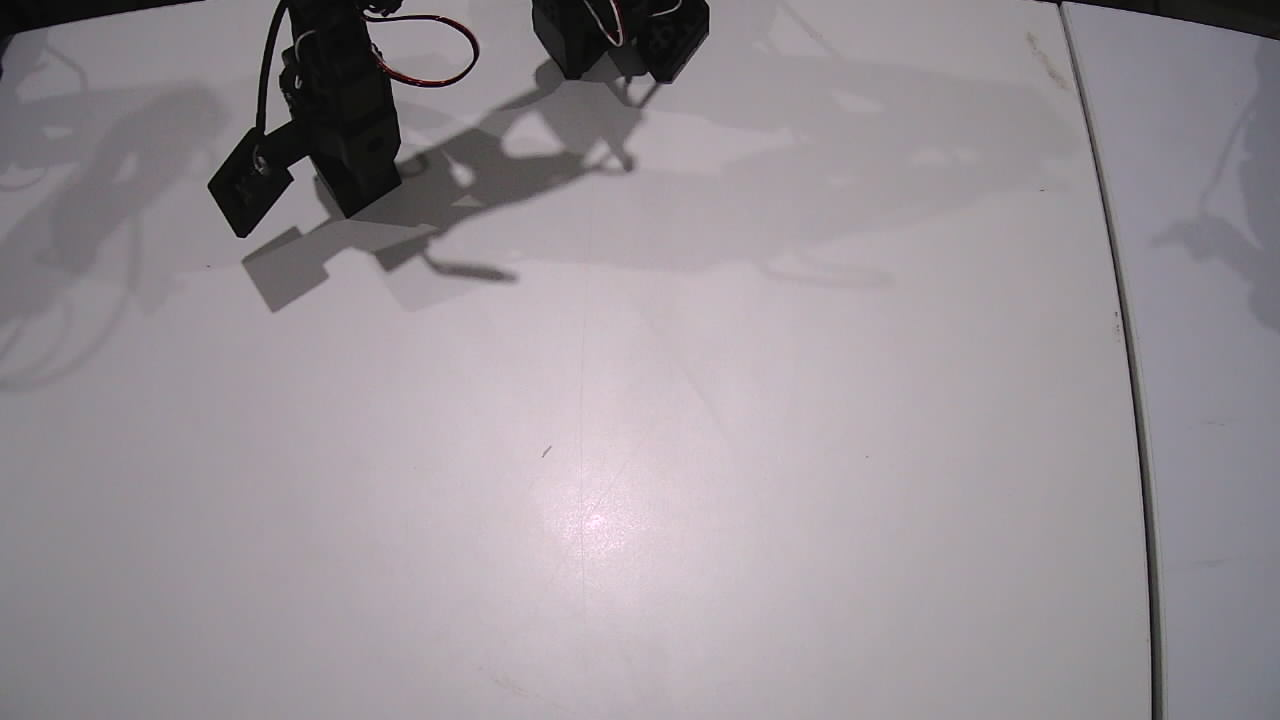
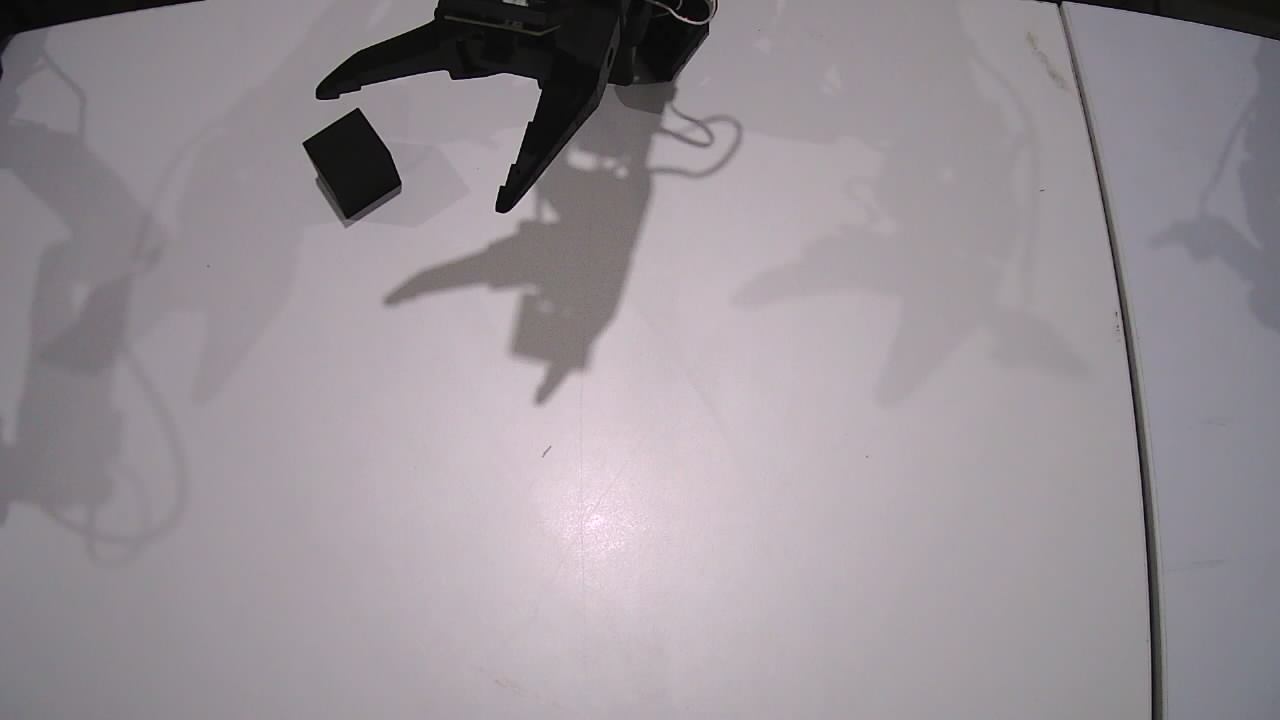
Update tools for arm-006__gpt-6-astra__grasp-cube
{"agent_id": "arm-006__gpt-6-astra__grasp-cube", "baseline_sha256": "6df93a20a05a3dc1a156aa3b51eb1788e2ddcd91056a577397b979b7e33a31ed", "baseline_version": 1, "designation": "arm-006", "experiment_id": "60ddc167-ccd2-416f-ad08-ab3b06d545fc", "fleet_database_enabled": false, "freshness_version": 2, "identity_version": 2, "model": "gpt-6-astra", "preserved_sha256": {"calibration/20261005T100921_180531211/intrinsics.json": "4ec6b1a49abda43063976d392ddf66a39353947ce3d08c35a88e17c021954163", "calibration/20261005T100921_180531211/report.json": "c36605c4f486eda36e5b659a6f6428e72a5679222d74ef6550e54b39fe44cb63", "calibration/20261005T100921_180531211/workspace_map.json": "a057358c35ff4d80235ff64e4b2f909b3d933f39c7657a719e535014511e5796", "calibration/20261005T100921_180531211/workspace_map.npz": "05e9f06fb38099b74b4dcf1a233c88bfe3cfc0e95c144da8c173346c2727279a", "calibration/20261005T100921_180531211/workspace_undistorted.png": "0cf381266158cf31f6acf0bc6fbdf818957f14528b1651d3761cc4271ca91053", "calibration/ready.json": "a2b2addfd83165981076a80147577469be26edadaff97f388cc365b77e7f4986", "cameras.json": "343a8b61bbc2d74885ee73db1cb84786681ef9bdfa17db4ff9f7a2ee160c0ef0", "config/motors/arm-006.json": "2e75c66010c99cdd47926348632396d2a4f09bd195ccb8c200f777b70068611f", "home_pose.json": "908e801e509a421a940722512db24462fd5390764e1e33a5464ccec438febb21", "tools/calibrate_workspace.py": "119afb4f6ffb1f3b424724658b6104c288c5db2a34f2b6faaba2ada84d8aaf17"}, "provider": "codex", "reset_at
[…]

diff --git a/agents/arm-006__gpt-6-astra__grasp-cube/final_report.md b/agents/arm-006__gpt-6-astra__grasp-cube/final_report.md
@@ -1,9 +1,9 @@
 # Cube collection status
 
-95 verified successes, including 83 recordings without quality flags; 16 unsuccessful episodes. This resumption added12 successes.
+110 verified successes, including 93 recordings without quality flags; 17 unsuccessful episodes. Latest resumption added 15 successes.
 
-33 successful episode starts occurred in the preceding60minutes. The50-per-hour requirement has not been demonstrated. All45 nominal grid positions have been sampled, with earlier corrections; continuous workspace coverage remains unverified.
+40 successful episode starts occurred in the preceding 60 minutes. The 50-per-hour requirement has not been demonstrated. All 45 nominal grid positions have been sampled and a repeat pass completed; continuous workspace coverage remains unverified.
 
-Stopped on a66C sample under the authorized65C software guard. Hardware protection remains70C. The sensor-spike cause is unconfirmed. No protection thresholds were increased. Pickup preflight checks both limits before motion.
+Stopped on a 65 C sample under the authorized 65 C software guard. Hardware protection remains 70 C. The sensor-spike cause is unconfirmed. No protection thresholds were increased. Pickup preflight checks both limits before motion.
 
-Cube released at nominal x=.2728m, pan=-14degrees. Arm returned home; maximum home error 1.27degrees. Recorder stopped; gripper open with torque off; fault bits zero. Repeat grid position39 remains unsuccessful in this pass.
+Cube released at nominal x=.1256 m, pan=55 degrees. Arm returned home; maximum home error 1.27 degrees. Recorder stopped; gripper open with torque off; fault bits zero. Next grid pickup is position 9.
